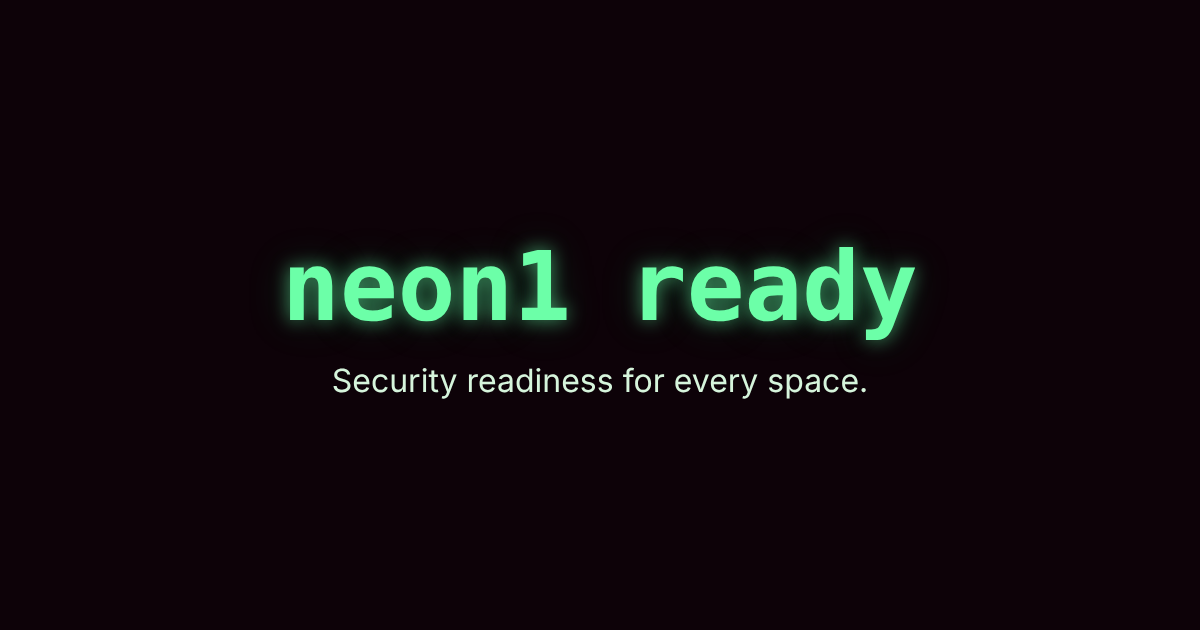
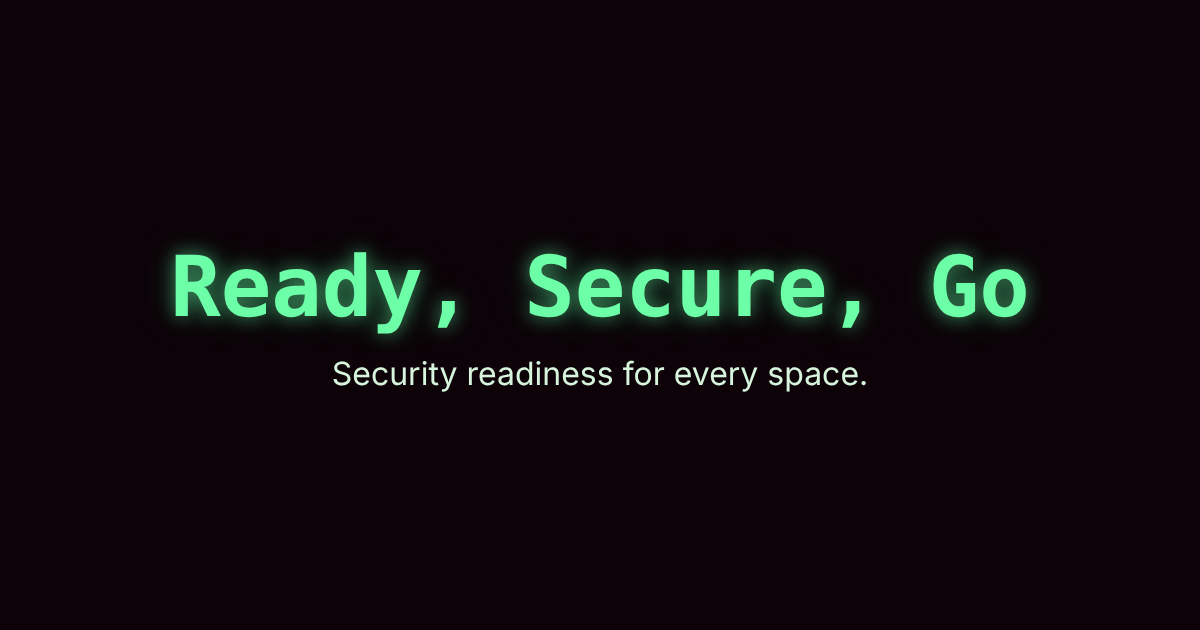
refactor: rename the project to Ready, Secure, Go
The neon1- prefix is kept for projects neon1 runs for itself. This one
is for the public, so it gets its own name. The repo, site URL, package,
handouts, readiness check and social image follow, and the About page
explains the name.

Changed region(s): [[0.1233, 0.3619, 0.8633, 0.573], [0.2775, 0.573, 0.74, 0.6333]]

diff --git a/site/quartz/static/readiness/index.html b/site/quartz/static/readiness/index.html
@@ -6,7 +6,7 @@
 <head>
   <meta charset="utf-8">
   <meta name="viewport" content="width=device-width, initial-scale=1">
-  <title>Readiness check · neon1 ready</title>
+  <title>Readiness check · Ready, Secure, Go</title>
   <meta name="description" content="Pick where you are, mark what you've already done, and see your neon1 level and the next three things to do.">
   <link rel="icon" href="../icon.png">
   <link rel="preconnect" href="https://fonts.googleapis.com">
@@ -17,7 +17,7 @@
   <header class="band">
     <a class="home" href="../../">
       <svg viewBox="0 0 64 64" fill="none" stroke="currentColor" stroke-width="2.6" stroke-linecap="round" aria-hidden="true"><path d="M6 6a24 24 0 0 1 24 24v30M6 12a18 18 0 0 1 18 18v30M6 18a12 12 0 0 1 12 12v30M6 24a6 6 0 0 1 6 6v30"/><path d="M34 6a24 24 0 0 1 24 24v30M34 12a18 18 0 0 1 18 18v30M34 18a12 12 0 0 1 12 12v30M34 24a6 6 0 0 1 6 6v30"/></svg>
-      neon1 ready
+      Ready, Secure, Go
     </a>
     <span class="kind">Readiness check</span>
   </header>
@@ -56,7 +56,7 @@
   </main>
 
   <footer>
-    From <a href="../../">neon1 ready</a> by neon1 LLC. Content under CC BY-SA 4.0. See the <a href="../../levels/grid">maturity grid</a> for every practice at once.
+    From <a href="../../">Ready, Secure, Go</a> by neon1 LLC. Content under CC BY-SA 4.0. See the <a href="../../levels/grid">maturity grid</a> for every practice at once.
   </footer>
 
   <script src="readiness.js"></script>

diff --git a/site/quartz.config.ts b/site/quartz.config.ts
@@ -2,18 +2,18 @@ import { QuartzConfig } from "./quartz/cfg"
 import * as Plugin from "./quartz/plugins"
 
 /**
- * neon1 ready site configuration (built on Quartz 4.5.2, MIT; see LICENSE-QUARTZ.txt).
+ * Ready, Secure, Go site configuration (built on Quartz 4.5.2, MIT; see LICENSE-QUARTZ.txt).
  * Content lives in ../content and is built with: npm run build
  */
 const config: QuartzConfig = {
   configuration: {
-    pageTitle: "neon1 ready",
+    pageTitle: "Ready, Secure, Go",
     pageTitleSuffix: "",
     enableSPA: true,
     enablePopovers: true,
     analytics: null,
     locale: "en-US",
-    baseUrl: "neon1llc.github.io/neon1-ready",
+    baseUrl: "neon1llc.github.io/ready-secure-go",
     ignorePatterns: ["private", "templates", ".obsidian", "_templates"],
     defaultDateType: "modified",
     theme: {

diff --git a/site/quartz/static/readiness/readiness.js b/site/quartz/static/readiness/readiness.js
@@ -21,7 +21,7 @@ const VERDICTS = [
   "You're at Neon. Now the best move is helping someone else get to Spark.",
 ]
 
-const STORE_KEY = "neon1-ready-check"
+const STORE_KEY = "ready-secure-go-check"
 
 const $ = (id) => document.getElementById(id)
 let data = null

diff --git a/content/about/index.md b/content/about/index.md
@@ -20,9 +20,11 @@ This collection is those sessions written down, opened up and made free for anyo
 - **Look at the whole picture.** When I work with a client, I always look at everything: accounts, devices, networks, cameras, the front door, the people, the vendors. Attackers don't care which department owns a problem.
 - **No fear selling.** Honest risk, honest odds, honest fixes.
 
-## The name
+## The names
 
-The name comes from two characters. Neo, "the One" in *The Matrix*, is an ordinary person who chooses to help other people see clearly. Andrew, the robot in *Bicentennial Man*, spends two hundred years being of service and never stops being curious.
+**Ready, Secure, Go** borrows the start of a race. Get ready, lock down what matters, then get on with your day. Security should be the warm-up, not the whole event.
+
+**neon1**, the company behind it, comes from two characters. Neo, "the One" in *The Matrix*, is an ordinary person who chooses to help other people see clearly. Andrew, the robot in *Bicentennial Man*, spends two hundred years being of service and never stops being curious.
 
 Neo also means new, and neon is hard to miss. The 1 is whoever I'm working with. That's you.
 
@@ -30,6 +32,6 @@ Neo also means new, and neon is hard to miss. The 1 is whoever I'm working with.
 
 ## Who's behind it
 
-neon1 ready is published by neon1 LLC (doing business as neon1). If you'd like a session for your school, office, community group or family, or help getting ready for an audit, reach out at [neon1.tech](https://neon1.tech). Sessions for schools, students and community groups are often free.
+Ready, Secure, Go is published by neon1 LLC (doing business as neon1). If you'd like a session for your school, office, community group or family, or help getting ready for an audit, reach out at [neon1.tech](https://neon1.tech). Sessions for schools, students and community groups are often free.
 
 See also: [License and how to share this](license.md).

diff --git a/README.md b/README.md
@@ -1,4 +1,4 @@
-# neon1 ready
+# Ready, Secure, Go
 
 **Security readiness for every space.** Plain-language, technically honest security guidance for wherever you are: your own phone, a family's home network, a classroom, a ten-person office, a nonprofit on no budget, or a company heading into a SOC 2 audit.
 
@@ -66,7 +66,7 @@ Teaching? [`content/teach/`](content/teach/index.md) has workshop kits for paren
 
 ## Licenses
 
-- **Content** (everything in `content/`): [CC BY-SA 4.0](LICENSE). Share it, teach from it, adapt it. Credit neon1 ready with a link, and share your changes under the same license.
+- **Content** (everything in `content/`): [CC BY-SA 4.0](LICENSE). Share it, teach from it, adapt it. Credit Ready, Secure, Go with a link, and share your changes under the same license.
 - **Code** (`site/`, `tools/`, `documents/`): [MIT](LICENSE-CODE). The bundled Inter and JetBrains Mono fonts are under the SIL Open Font License.
 - **The neon1 name and logo** aren't covered by either license. See [TRADEMARK.md](TRADEMARK.md).
 - Material adapted from others is credited on each page and in [ATTRIBUTIONS.md](ATTRIBUTIONS.md).

diff --git a/content/about/license.md b/content/about/license.md
@@ -7,7 +7,7 @@ I want this to travel. Print it, teach from it, translate it, put it on your sch
 ## The short version
 
 - **Words and checklists** are [CC BY-SA 4.0](https://creativecommons.org/licenses/by-sa/4.0/). You can share and adapt them, even commercially, as long as you:
-  1. **Credit it**, for example: *"From neon1 ready by neon1 (neon1.tech), CC BY-SA 4.0."* Add *"adapted"* if you changed it.
+  1. **Credit it**, for example: *"From Ready, Secure, Go by neon1 (neon1.tech), CC BY-SA 4.0."* Add *"adapted"* if you changed it.
   2. **Share alike.** If you publish a changed version, use the same license.
 - **Code** (the site and tools) is MIT.
 - **The neon1 name and logo** aren't part of either license. You can hand out unmodified pages as they are. If you change the material, drop the logo and say it's adapted. Details are in `TRADEMARK.md` in the repository.

diff --git a/TRADEMARK.md b/TRADEMARK.md
@@ -4,7 +4,7 @@
 
 **You're welcome to:**
 
-- Say that your work is based on or adapted from neon1 ready, with a link back. That's the whole point.
+- Say that your work is based on or adapted from Ready, Secure, Go, with a link back. That's the whole point.
 - Print and hand out unmodified pages, logo included, for workshops, classrooms, community groups and offices.
 - Mention neon1 when you review it, teach from it or write about it.
 

diff --git a/content/library/index.md b/content/library/index.md
@@ -1,6 +1,6 @@
 ---
 title: Library
-description: "The frameworks, standards and sources behind neon1 ready, what each is for, and how we use it."
+description: "The frameworks, standards and sources behind Ready, Secure, Go, what each is for, and how we use it."
 ---
 
 You don't need any of these to get started. They matter when you need to show your work to customers, insurers, auditors or regulators, or when you want to go deeper.

diff --git a/ATTRIBUTIONS.md b/ATTRIBUTIONS.md
@@ -1,6 +1,6 @@
 # Attributions
 
-neon1 ready stands on a lot of generous work. Pages that adapt a source say so at the bottom and list it in their `sources`. This file is the full list.
+Ready, Secure, Go stands on a lot of generous work. Pages that adapt a source say so at the bottom and list it in their `sources`. This file is the full list.
 
 ## Adapted (copied and changed) under compatible licenses
 

diff --git a/VCS-ETIQUETTE.md b/VCS-ETIQUETTE.md
@@ -1,6 +1,6 @@
 # Version control etiquette
 
-How changes get into neon1 ready. The rules get stricter at `v1.0.0`, because people will depend on the content and the site from then on.
+How changes get into Ready, Secure, Go. The rules get stricter at `v1.0.0`, because people will depend on the content and the site from then on.
 
 ## Always
 

diff --git a/content/printables/home-spark-checklist.md b/content/printables/home-spark-checklist.md
@@ -21,4 +21,4 @@ tags: [printable, checklist]
 
 ---
 
-*neon1 ready · neon1.tech · CC BY-SA 4.0*
+*Ready, Secure, Go · neon1.tech · CC BY-SA 4.0*

diff --git a/content/printables/office-spark-checklist.md b/content/printables/office-spark-checklist.md
@@ -21,4 +21,4 @@ tags: [printable, checklist]
 
 ---
 
-*neon1 ready · neon1.tech · CC BY-SA 4.0*
+*Ready, Secure, Go · neon1.tech · CC BY-SA 4.0*
